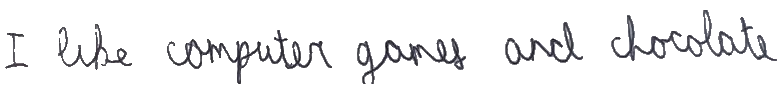
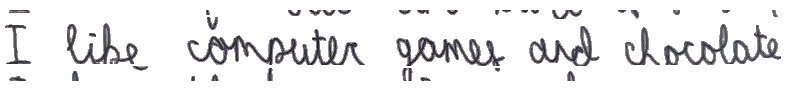
adding remove background and crop functionality

diff --git a/front/server.py b/front/server.py
@@ -1,6 +1,9 @@
 import torch
 from flask import Flask, request, render_template, jsonify
 import os
+
+from lib.preprocess_image import remove_background, crop_lines
+
 # import torch_xla.core.xla_model as xm
 
 ROOT_DIR = os.path.dirname(os.path.abspath(__file__))
@@ -8,19 +11,22 @@ os.chdir(ROOT_DIR)
 app = Flask(__name__)
 device = torch.device("cpu")
 
-def preprocess_image(image_path):
+def preprocess_image(image_path, image_name):
     # Placeholder: Preprocess the image and return the preprocessed image path and list of image paths for lines
     processed_image = "static/images/processed/preprocessed_image.png"
 
     # Directory where line images are stored
     line_images_dir = "static/images/processed/lines"
-    os.makedirs(line_images_dir, exist_ok=True)
+    # os.makedirs(line_images_dir, exist_ok=True)
+
+    image = remove_background(image_path, image_name, "../front/static/images/processed", "preprocessed_image.png")
+
+    crop_lines(image, "../front/static/images/processed/lines")
 
     # Example: Assuming images are already created or you process them here
     # Get all image files from the directory
-    lines_images = [os.path.join(line_images_dir, filename) for filename in os.listdir(os.path.join(ROOT_DIR, line_images_dir)) if
+    lines_images = [os.path.join(line_images_dir, filename) for filename in os.listdir("../front/static/images/processed/lines") if
                     filename.endswith('.png')]
-    print(lines_images)
 
     return processed_image, lines_images
 
@@ -48,8 +54,8 @@ def check_image_quality():
     # Handle user decision on image quality
     decision = request.json.get('decision')
     if decision == 'yes':
-        image_path = "static/images/uploaded_image.jpg"  # Example image path
-        preprocessed_image, lines = preprocess_image(image_path)
+        image_path = "../front/static/images"  # Example image path
+        preprocessed_image, lines = preprocess_image(image_path, "uploaded_image.jpg")
         # {{url_for('static', preprocessed_image)}}
         return jsonify({"status": "preprocessed", "image": preprocessed_image, "lines": lines})
     return jsonify({"status": "redo"})
